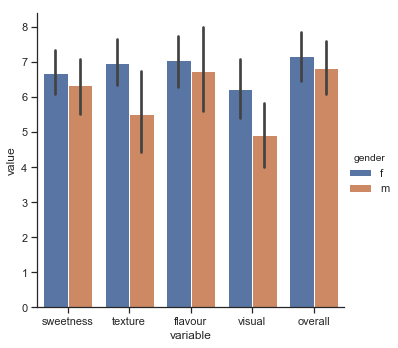
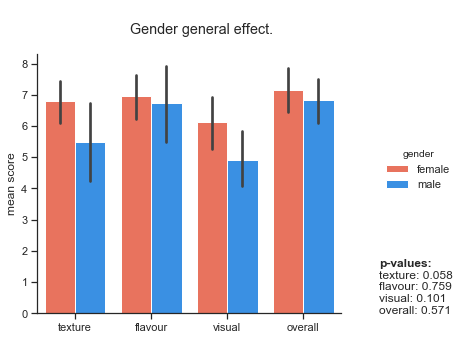
* remove sweetness as a variable * refactor gender_general_effect to have consistent styling, add figure title, p-values, and export as png

diff --git a/analysis.py b/analysis.py
@@ -72,6 +72,11 @@ def read_csv_and_preprocess_data(filename):
     melted = melted.apply(rename_variables, axis=1)
     melted['composite_variable'] = melted['variable'] + melted['turron']
     melted
+    # Remove 'sweetness' as a variable form the dataset, because we believe it was
+    # missinterpreted by many participants.
+    melted = melted.drop(melted[melted.variable == 'sweetness'].index)
+    df = df.drop('sweetness_A', axis=1)
+    df = df.drop('sweetness_B', axis=1)
     return df, melted
 
 df, melted = read_csv_and_preprocess_data("data.csv")
@@ -95,23 +100,28 @@ def gender_by_turron_per_category(melted):
 #%% [markdown]
 # ### Gender (t-test)
 #%%
-# comparissons = (
-#     ('sweetness_A', 'sweetness_B'),
-#     ('flavour_A', 'flavour_B'),
-#     ('visual_A', 'visual_B'),
-#     ('texture_A', 'texture_B'),
-#     ('overall_A', 'overall_B'),
-# )
+def gender_general_effect(melted):
+    df = melted.copy()
+    p_values = []
+    for param  in ['texture', 'flavour', 'visual', 'overall']:
+        females = df[(df['variable'] == param) & (df['gender'] == 'female')]
+        males = df[(df['variable'] == param) & (df['gender'] == 'male')]
+        statistic, pvalue = stats.ttest_ind(females['value'], males['value'])
+        print(f"P Value {param} = {pvalue}")
+        p_values.append(f"{param}: {pvalue:1.3f}")
 
-for param  in ['texture', 'flavour', 'visual', 'sweetness', 'overall']:
-    females = melted[(melted['variable'] == param) & (melted['gender'] == 'f')]
-    males = melted[(melted['variable'] == param) & (melted['gender'] == 'm')]
-    statistic, pvalue = stats.ttest_ind(females['value'], males['value'])
-    print(f"P Value {param} = {pvalue}")
+    g = sns.catplot(x="variable", y="value", hue="gender", kind="bar", data=df, palette=PALETTE)
+    plt.subplots_adjust(top=0.85)
+    p_values = '\n'.join(p_values)
+    g.fig.suptitle(f"\nGender general effect.")
+    g.axes[0,0].set_ylabel('mean score')
+    g.axes[0,0].xaxis.label.set_visible(False)
+    g.axes[0,0].text(4, 1.5, f"p-values:", fontweight='bold')
+    g.axes[0,0].text(4, 0, p_values)
+    return g
 
-#melted[(melted['variable'] == param) & (melted['gender'] == 'f')]
-sns.catplot(x="variable", y="value", hue="gender", kind="bar", data=melted)
-
+g = gender_general_effect(melted)
+g.savefig("results/gender_general_effect.png", facecolor=g.fig.get_facecolor())
 ####################################################################################################
 #%% [markdown]
 # ### Turron by Gender
